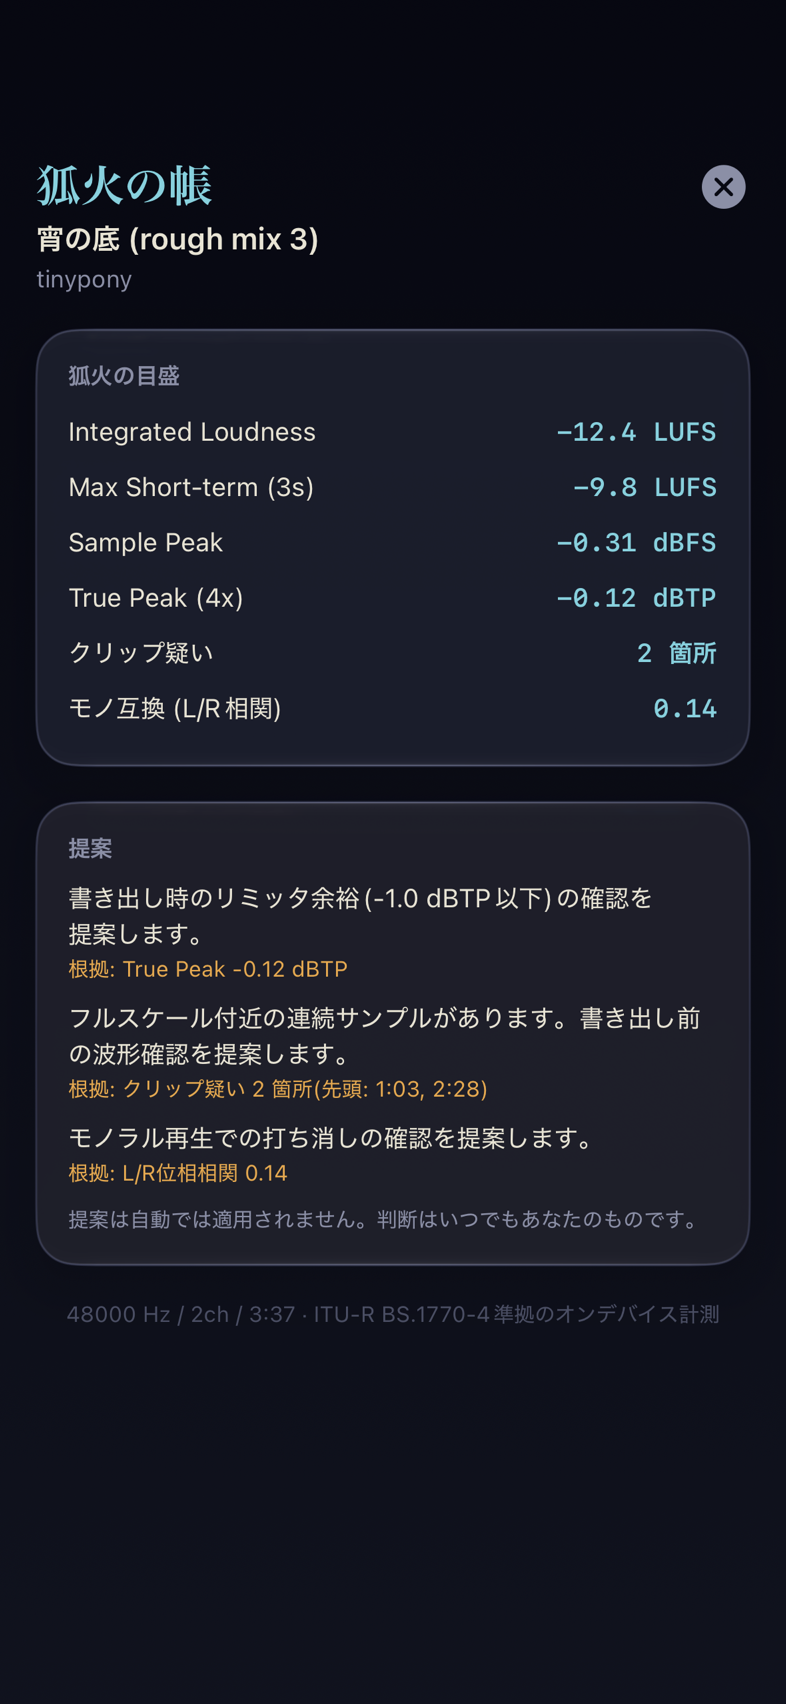
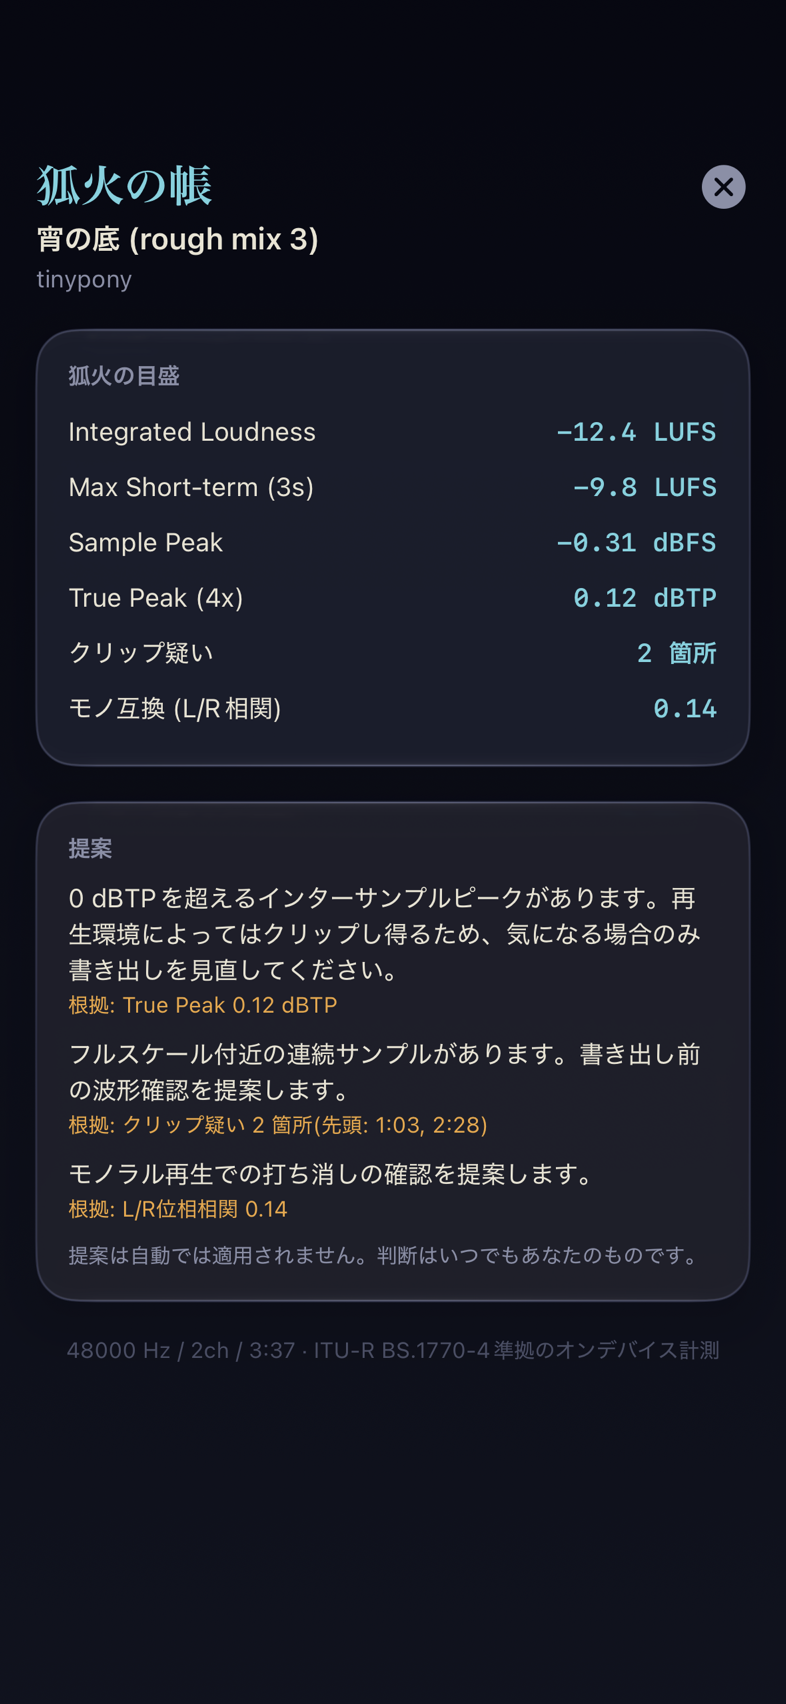
fix: 帳のTrue Peak提案を0 dBTP超のみへ(実機フィードバック) (#22)
-1.0 dBTP超で「リミッタ余裕の確認」を提案していたが、ロスレス再生は
0 dBTPまで問題なく、配信プラットフォームはノーマライズ時にTrue Peak側も
補正するため、マスター段階で-1.0 dBTPの余裕を気にする必要はない(作者
判断 2026-07-13)。提案は実害があり得る0 dBTP超(デコード・再生機器での
クリップの恐れ)のみとし、文言も「気になる場合のみ書き出しを見直す」へ。

TDD: -0.2 dBTPで提案なしのREDを確認→GREEN。full suite 112/112・skip 0。
帳のartifact代表値をTP +0.12へ変え、実描画とledgerを新文言で更新。

Claude-Session: https://claude.ai/code/session_01Gw2s5YT6bYe6RMBqb6h2F6

diff --git a/YagyoPlayerTests/KitsunebiAnalyzerTests.swift b/YagyoPlayerTests/KitsunebiAnalyzerTests.swift
@@ -382,7 +382,7 @@ final class KitsunebiAnalyzerTests: XCTestCase {
             integratedLUFS: -12.4,
             maxShortTermLUFS: -9.8,
             samplePeakDBFS: -0.31,
-            truePeakDBTP: -0.12,
+            truePeakDBTP: 0.12,
             clipRunCount: 2,
             clipRunSeconds: [63.2, 148.7],
             stereoCorrelation: 0.14
@@ -563,12 +563,19 @@ final class KitsunebiAnalyzerTests: XCTestCase {
         XCTAssertTrue(clean.suggestions.isEmpty)
 
         var hot = clean
-        hot.truePeakDBTP = -0.2
+        hot.truePeakDBTP = 0.4
         hot.clipRunCount = 3
         hot.clipRunSeconds = [1.0, 2.0, 3.0]
         hot.stereoCorrelation = -0.4
         let suggestions = hot.suggestions
         XCTAssertEqual(suggestions.count, 3)
         XCTAssertEqual(Set(suggestions.map(\.id)), ["truePeak", "clip", "monoCompat"])
+
+        // -1.0〜0 dBTPの帯はマスター段階で気にしない(作者判断 2026-07-13):
+        // ロスレス再生は0 dBTPまで問題なく、配信プラットフォームは
+        // ノーマライズ時にTrue Peak側も面倒を見る。提案は0 dBTP超のみ。
+        var streamingLoud = clean
+        streamingLoud.truePeakDBTP = -0.2
+        XCTAssertTrue(streamingLoud.suggestions.isEmpty)
     }
 }

diff --git a/YagyoPlayer/Models/TobariMetrics.swift b/YagyoPlayer/Models/TobariMetrics.swift
@@ -53,11 +53,15 @@ extension TobariMetrics {
     var suggestions: [TobariSuggestion] {
         var results: [TobariSuggestion] = []
 
-        if let truePeakDBTP, truePeakDBTP > -1.0 {
+        // True Peakの提案は0 dBTP超のみ(作者判断 2026-07-13)。ロスレス再生は
+        // 0 dBTPまで問題なく、配信プラットフォームはノーマライズ時にTrue Peak側も
+        // 補正するため、-1.0 dBTPの余裕はマスター段階で気にする必要がない。
+        // 0 dBTP超はデコードや再生機器でクリップし得る実害があるときだけ知らせる。
+        if let truePeakDBTP, truePeakDBTP > 0.0 {
             results.append(
                 TobariSuggestion(
                     id: "truePeak",
-                    text: "書き出し時のリミッタ余裕(-1.0 dBTP以下)の確認を提案します。",
+                    text: "0 dBTPを超えるインターサンプルピークがあります。再生環境によってはクリップし得るため、気になる場合のみ書き出しを見直してください。",
                     basis: String(format: "True Peak %.2f dBTP", truePeakDBTP)
                 )
             )

diff --git a/docs/evidence/step5-tobari/README.md b/docs/evidence/step5-tobari/README.md
@@ -50,3 +50,4 @@ Swift実装と同一の係数式・ゲーティング・FIR設計を [`mirror.py
 
 - 2026-07-12: ユーザー本人がiPhone実機で動作確認し、PR #16を承認(「実機確認しました。マージ承認します。」)。`main`へ統合し、**Phase A完了**。
 - 実機確認の過程で見つかった2件(行の再生ボタンが頭出しになる問題、フィルタ行のPickerラベルが曲リストへ重なる問題)も同PRで修正済み(巻物側の行と再生文脈の引き継ぎを含む)。
+- 2026-07-13: True Peakの提案を**0 dBTP超のみ**へ変更(作者判断)。ロスレス再生は0 dBTPまで問題なく、配信プラットフォームはノーマライズ時にTrue Peak側も補正するため、-1.0 dBTPの余裕確認はマスター段階で不要。文言も「気になる場合のみ書き出しを見直す」へ改め、上の実描画を新文言(代表値TP +0.12)で更新。
